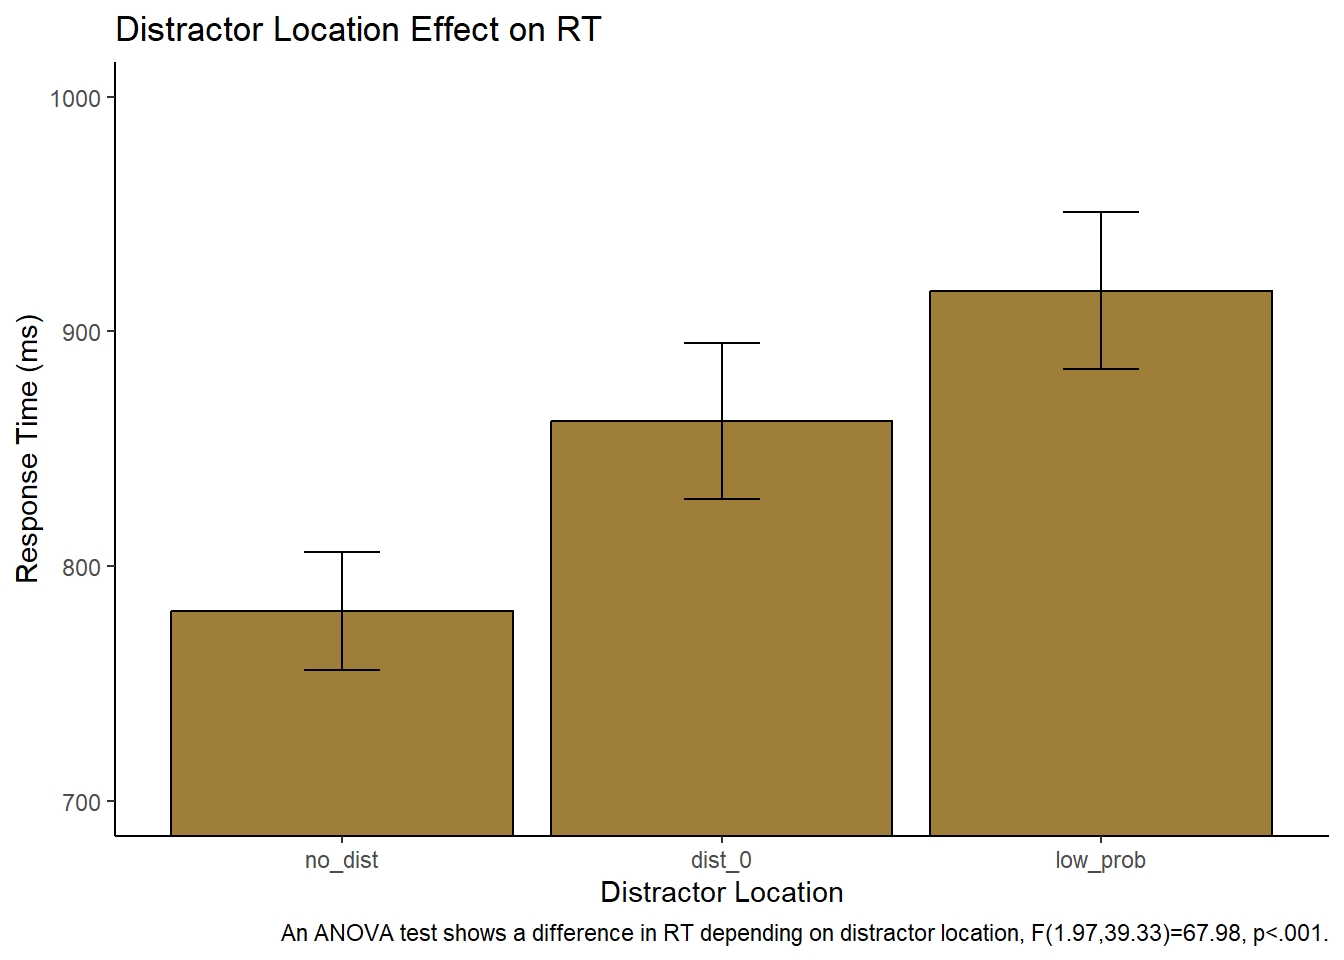
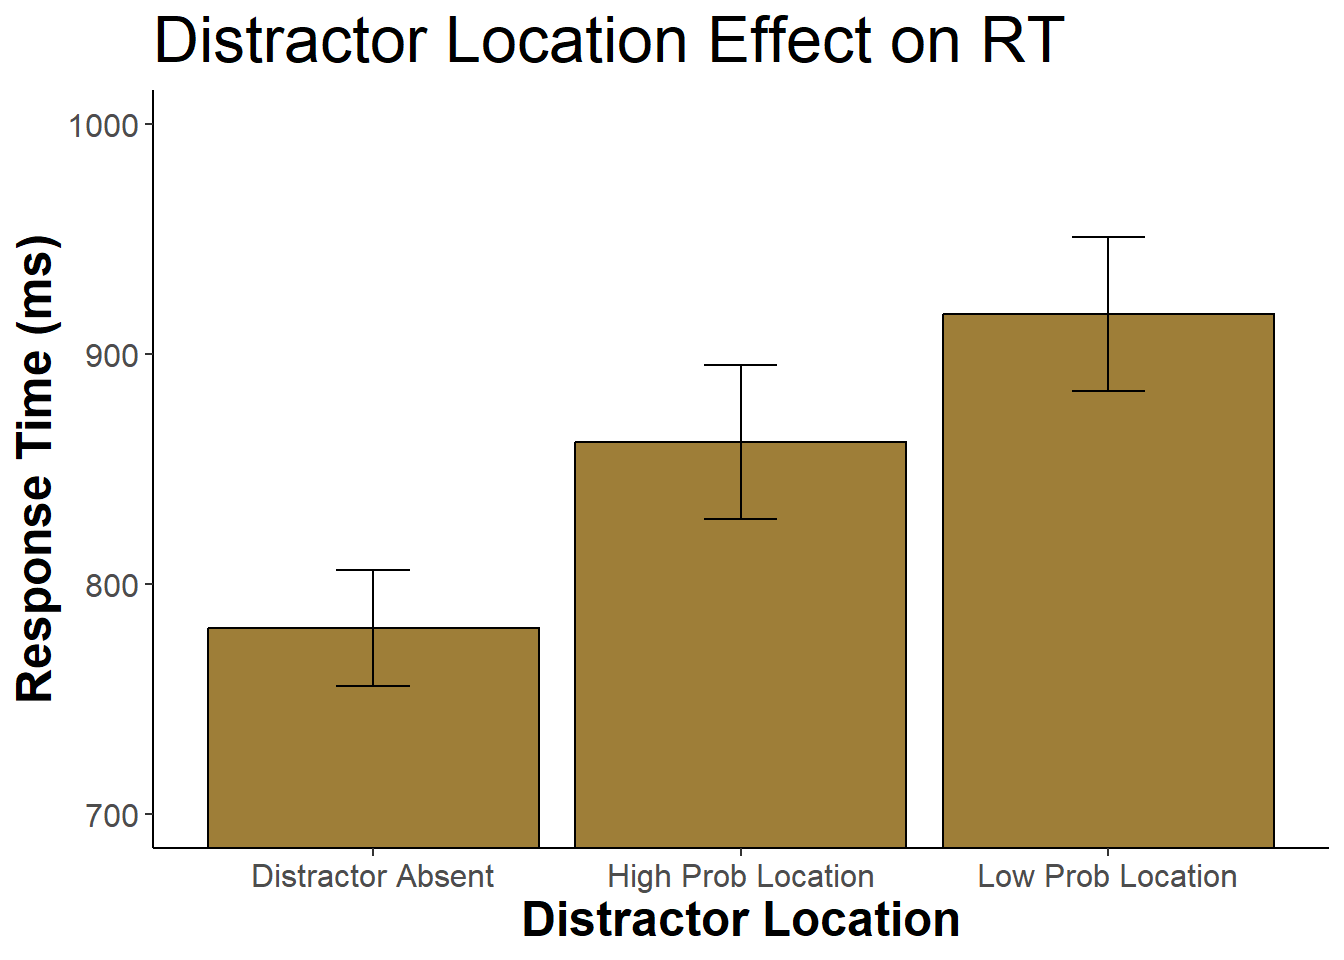
updating portfolio graphs for NC Cog poster

diff --git a/docs/p02.html b/docs/p02.html
@@ -599,11 +599,15 @@ chose those particular colors based on Wake Forest’s color scheme.</p>
 <pre class="r"><code>ggplot(data = sum_stats2, aes(x = relative_target, y = mean_rts)) +
   geom_bar(stat = &quot;identity&quot;, fill=&quot;#9E7E38&quot;, color=&#39;#000000&#39;) +
   geom_errorbar(aes(ymin=lower_limit, ymax=upper_limit), width=0.2)+
-  coord_cartesian(ylim = c(700,850))+
+  coord_cartesian(ylim = c(700,1000))+
   theme_classic()+
   labs(x = &quot;Target Location&quot;, y = &quot;Response Time (ms)&quot;)+
   labs(title = &quot;Target Location Effect on RT&quot;)+
-  labs(caption = &quot;A t-test shows a difference in RT depending on distractor location, t(20)=1.91, p=.035.&quot;)</code></pre>
+  #labs(caption = &quot;A t-test shows a difference in RT depending on distractor location, t(20)=1.91, p=.035.&quot;)+
+  theme(axis.text=element_text(size=14),
+        axis.title=element_text(size=18,face=&quot;bold&quot;),
+        title = element_text(size = 20))+
+  scale_x_discrete(labels= c(&quot;high_prob&quot;=&quot;High Prob Distractor Location&quot;,&quot;low_prob&quot;=&quot;Low Prob Distractor Location&quot;))</code></pre>
 <p><img src="p02_files/figure-html/-%20graph%202%20-%20target%20location%20effect%20on%20rt-1.png" width="672" /></p>
 <p>Determine if the difference between response times when the target is
 in the high-probabilty vs. low-probability locations is significant.</p>

diff --git a/docs/p01.html b/docs/p01.html
@@ -584,7 +584,11 @@ chose those particular colors based on Wake Forest’s color scheme.</p>
   theme_classic()+
   labs(x = &quot;Distractor Location&quot;, y = &quot;Response Time (ms)&quot;)+
   labs(title = &quot;Distractor Location Effect on RT&quot;)+
-  labs(caption = &quot;An ANOVA test shows a difference in RT depending on distractor location, F(1.97,39.33)=67.98, p&lt;.001.&quot;)</code></pre>
+  #labs(caption = &quot;An ANOVA test shows a difference in RT depending on distractor location, F(1.97,39.33)=67.98, p&lt;.001.&quot;)+
+    theme(axis.text=element_text(size=12),
+        axis.title=element_text(size=18,face=&quot;bold&quot;),
+        title = element_text(size = 20))+
+  scale_x_discrete(labels= c(&quot;no_dist&quot;=&quot;Distractor Absent&quot;,&quot;low_prob&quot;=&quot;Low Prob Location&quot;, &quot;dist_0&quot;=&quot;High Prob Location&quot;))</code></pre>
 <p><img src="p01_files/figure-html/-%20graph%202%20-%20distractor%20location%20effect%20on%20rt-1.png" width="672" /></p>
 <p>One last ANOVA test on this subset of data.</p>
 <pre class="r"><code>model3 &lt;- aov_car(value ~ relative_hp_dist + Error(ID/relative_hp_dist), data=df_mod)
